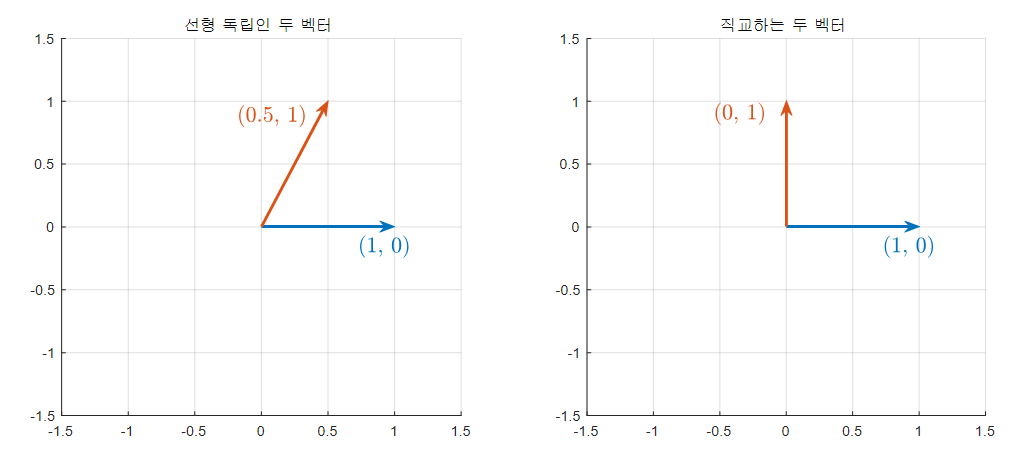
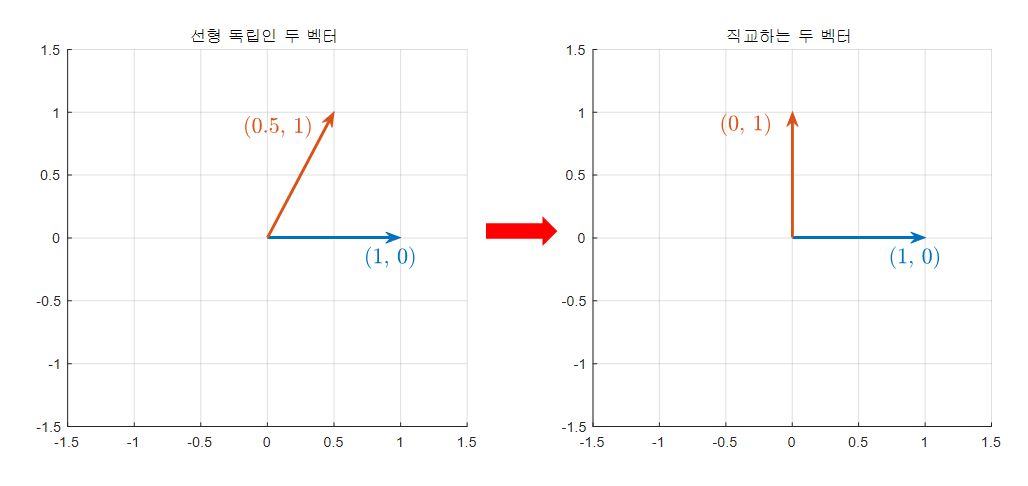
Gram-Schmidt 계속 작성 중

diff --git a/_posts/2020-11-23-gram_schmidt.md b/_posts/2020-11-23-gram_schmidt.md
@@ -82,7 +82,33 @@ Gram-Schmidt 과정이 수행해주는 일은 기본적으로 다음과 같다.
 
 그림을 곁들여 설명하면 이런 내용이라고 할 수 있다.
 
+<p align = "center">
+  <img src = "https://raw.githubusercontent.com/angeloyeo/angeloyeo.github.io/master/pics/2020-11-23-gram_schmidt/pic3.png">
+  <br>
+  그림 3. Gram-Schmidt 과정은 왼쪽 그림과 같이 주어진 두 개의 벡터를 오른쪽 그림과 같이 직교하는 두 벡터로 변형시키는 과정이다.
+</p>
 
+직교하는 벡터셋을 얻게 되면 여러가지로 편리한 점이 많지만 특히 중요한 것은 직교하지 않는 기저에 비해 직교하는 기저를 얻게 되면 얻는 이점이 있기 때문이다.
+
+<p align = "center">
+  <img src = "https://raw.githubusercontent.com/angeloyeo/angeloyeo.github.io/master/pics/2020-11-23-gram_schmidt/pic4.png">
+  <br>
+  그림 4. 왼쪽: 직교하지 않는 기저를 이용해 생성한 벡터 공간. 오른쪽: 직교하는 기저를 이용해 생성한 벡터 공간
+</p>
+
+만약 선형독립인 두 벡터 $\lbrace v_1, v_2 \rbrace$가 2차원 실수 공간 상의 기저라고 해보자. 이 때, 두 벡터는 서로 직교하지 않아도 된다. 
+
+그렇다면, 2차원 실수 공간 안에 있는 임의의 벡터 $v\in \Bbb{R}^2$는 $v_1$과 $v_2$의 선형 결합으로 표현될 수 있다. 다시 말해,
+
+$$v = x_1v_1 + x_2 v_2 \text{ where } x_1, x_2 \in \Bbb{R}$$
+
+와 같이 $v_1$과 $v_2$를 이용해 $v$를 표현할 수 있게 된다.
+
+그런데, 만약 두 벡터 $\lbrace w_1, w_2\rbrace$가 2차원 실수 공간 상의 직교하는 기저라고 한다면, 2차원 실수 공간 상에 있는 임의의 벡터 $v \in \Bbb{R}^2$는 다음과 같이 쓸 수 있게 된다.
+
+$$v = (v\cdot w_1)w_1 + (v\cdot w_2)w_2$$
+
+이로써 $v$를 $v_1$과 $v_2$의 선형결합으로 표현하기 위한 계수를 쉽게 얻을 수 있게 된다.
 
 ## Gram-Schmidt 과정의 프로세스
 
